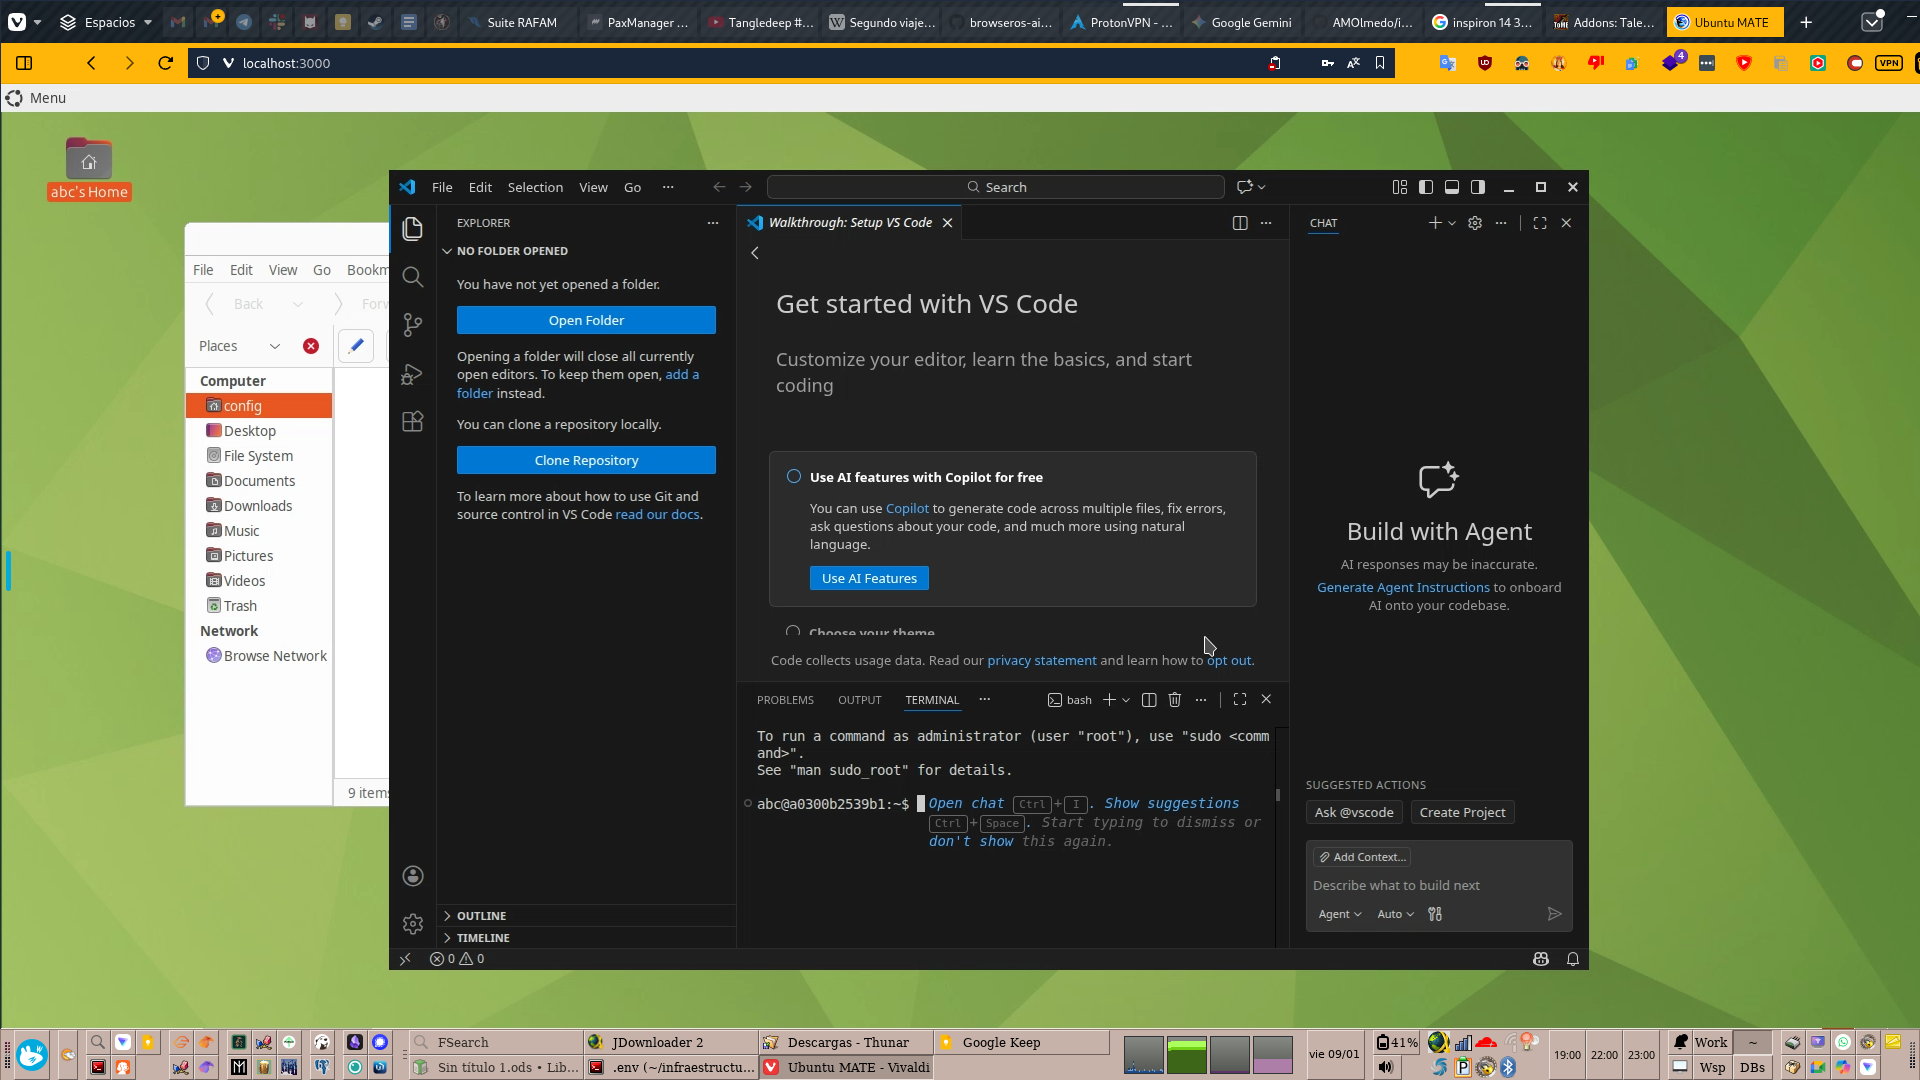
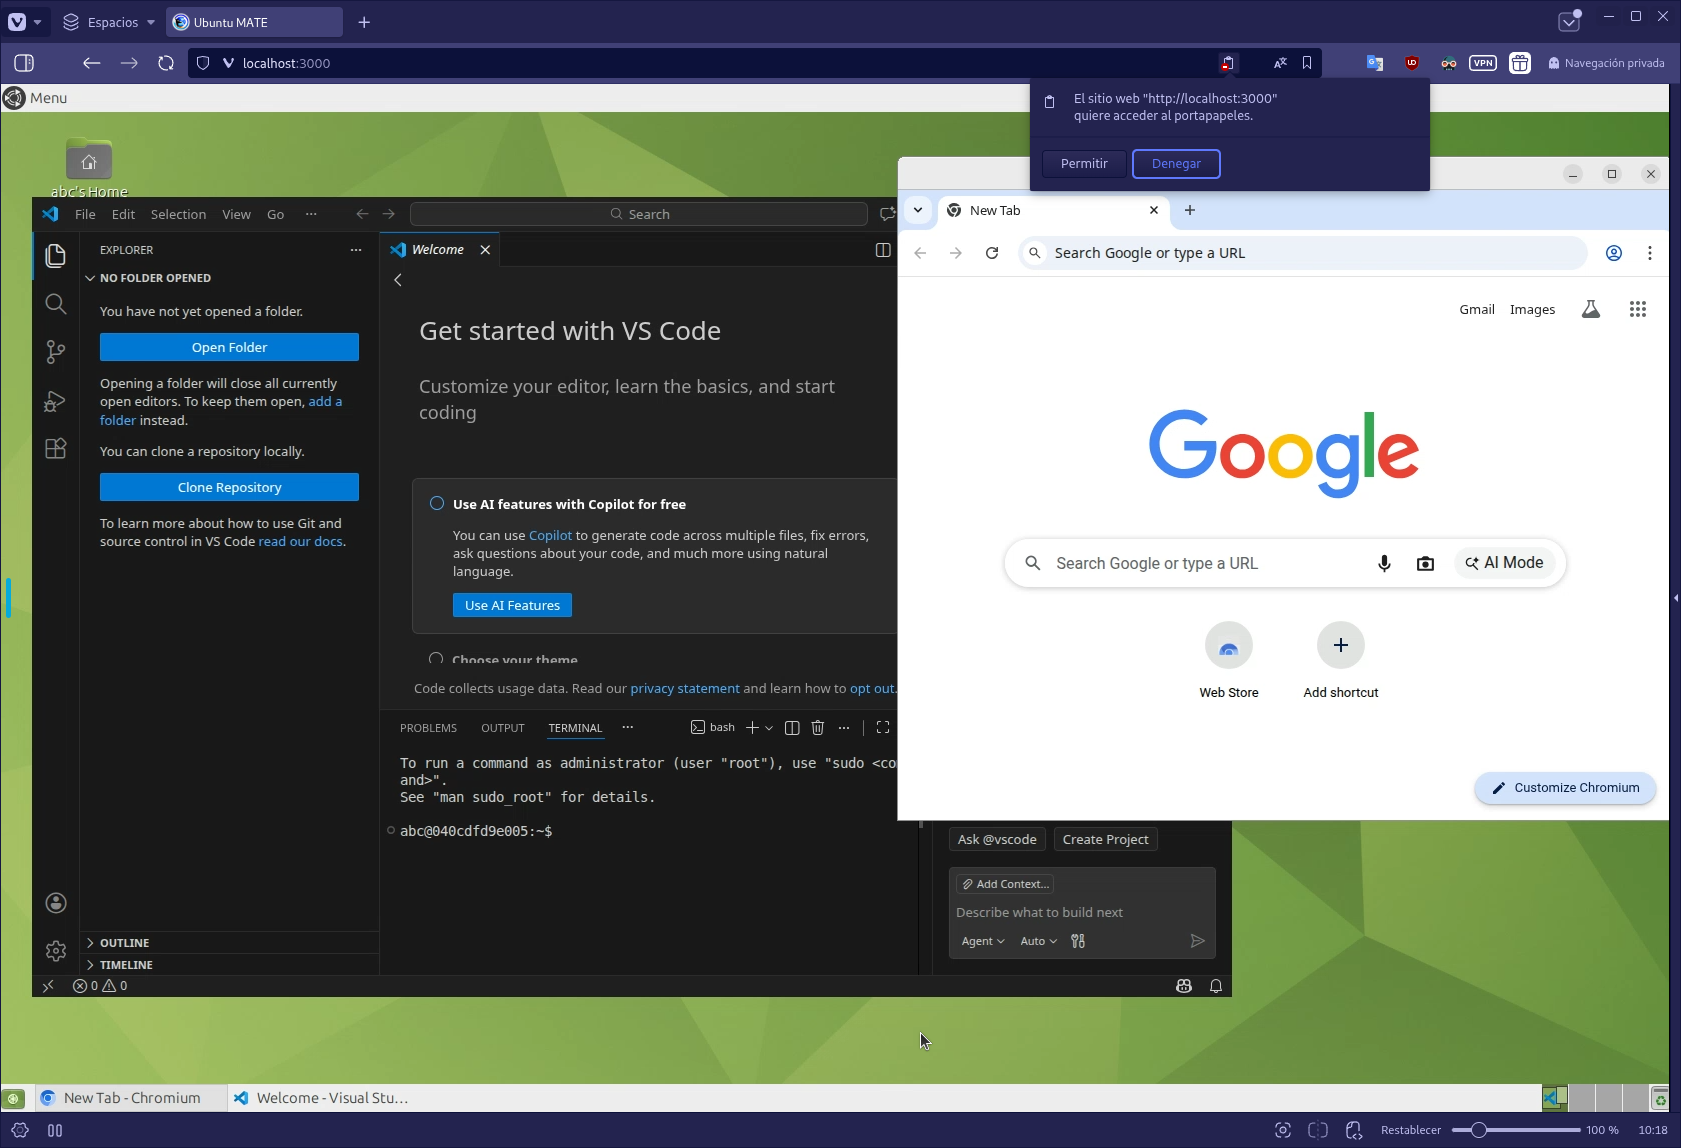
Agregado Chromium Browser

diff --git a/docker-webtop/README.md b/docker-webtop/README.md
@@ -2,7 +2,7 @@
 
 Escritorio completo servido bajo Docker sin necesidad de máquina virtual, X11 Forwarding, VNC, NX, etc.
 
-Usa Mate Desktop como window Manager, y ya tiene VSCode.
+Usa Mate Desktop como window Manager. Ya tiene VSCode y Chromium Browser.
 
 Proyecto original: https://docs.linuxserver.io/images/docker-webtop/#supported-architectures
 
@@ -28,4 +28,5 @@ Relacionado: [más trucos para tener un escritorio liviano, remoto](https://gith
 - `docker compose up -d && docker compose logs -f`
 - If you are inside a container, forward ports 3000 and 3001
 - Access it with `https://${SERVER_NAME}:3001`
+
 
